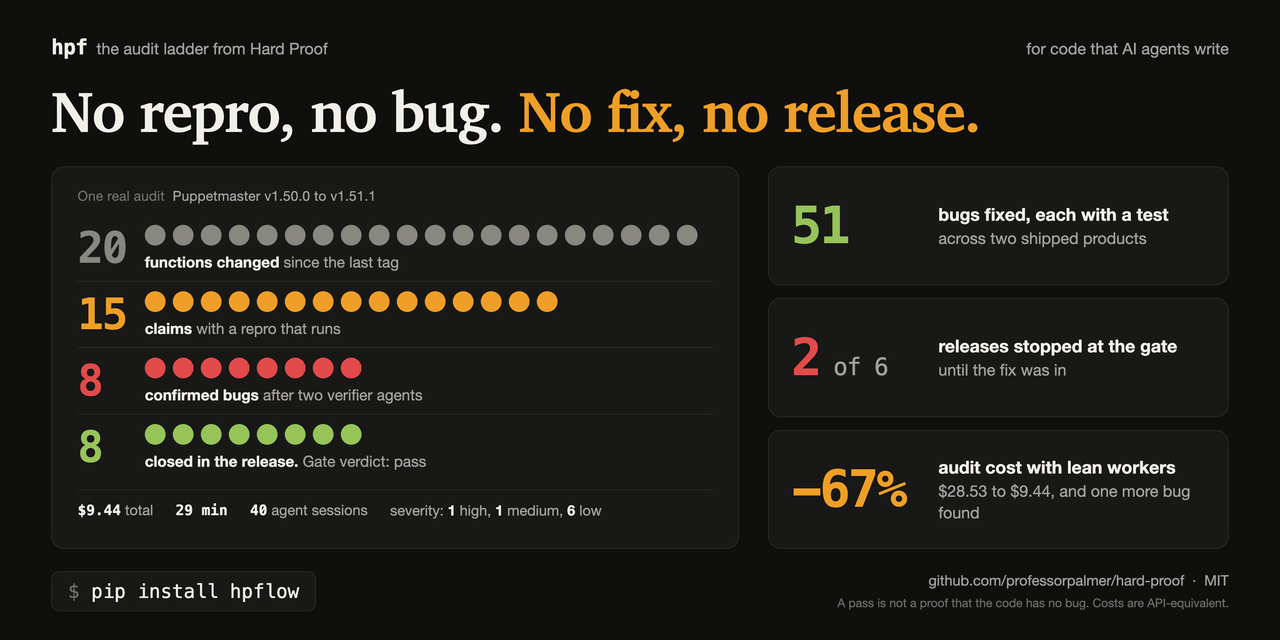
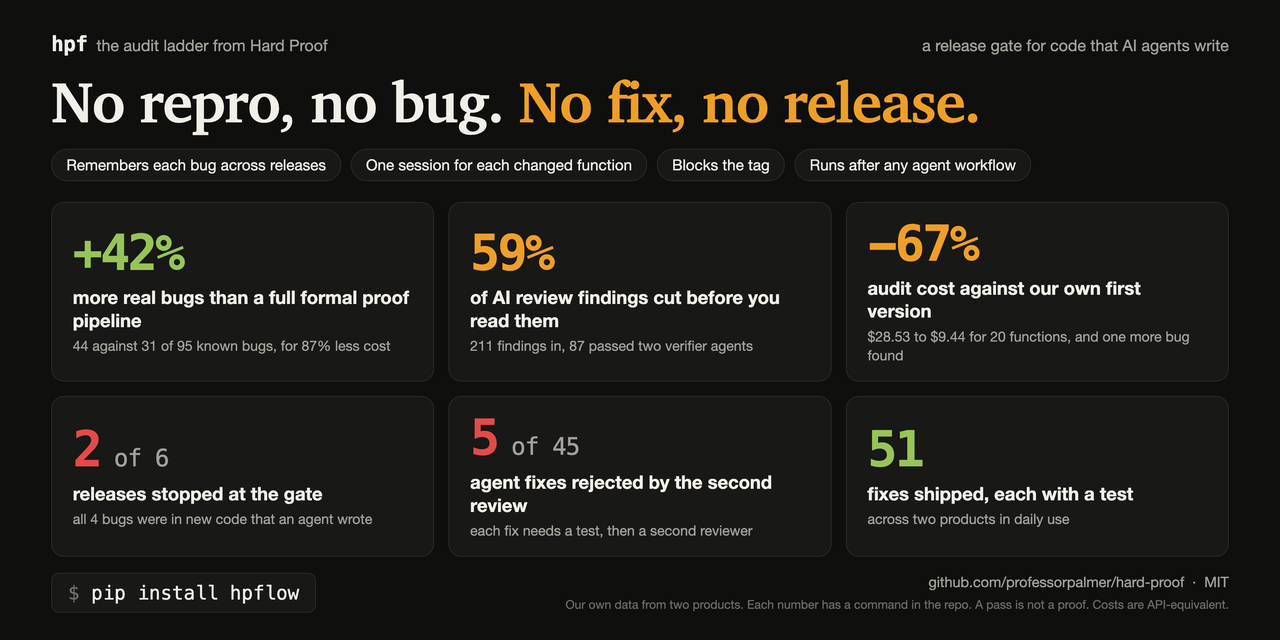
Link preview card: six measured comparisons
Sources: v2/retro_compare.json and v2/review_detected.json (44 against 31
of 95 known bugs, 105.49 against 792.70 US dollars), v2/ladder_summary.json
(211 findings, 87 passed two verifiers, 5 of 45 fixes reverted, 51 fixes),
v2/cost_cut.json (28.53 to 9.44), v2/gate_live.json (2 of 6 releases).

diff --git a/site/social/hpf-share-card.html b/site/social/hpf-share-card.html
@@ -8,40 +8,32 @@
 *{box-sizing:border-box;margin:0;padding:0}
 html,body{width:1600px;height:900px;background:var(--bg);color:var(--text);font-family:-apple-system,"SF Pro Text","Helvetica Neue",Arial,sans-serif;overflow:hidden}
 .mono{font-family:"SF Mono",Menlo,Consolas,monospace}
-.page{width:1600px;height:900px;padding:52px 64px 44px;display:flex;flex-direction:column}
+.page{width:1600px;height:900px;padding:48px 64px 40px;display:flex;flex-direction:column}
 .top{display:flex;justify-content:space-between;align-items:baseline;font-size:20px;color:var(--mute)}
 .top b{color:var(--text);font-weight:600;font-size:26px;letter-spacing:-0.5px}
-h1{font-family:Charter,"Iowan Old Style",Georgia,serif;font-weight:700;font-size:72px;line-height:1.08;letter-spacing:-1.5px;margin-top:26px}
+h1{font-family:Charter,"Iowan Old Style",Georgia,serif;font-weight:700;font-size:72px;line-height:1.08;letter-spacing:-1.5px;margin-top:22px}
 h1 i{font-style:normal;color:var(--amber)}
-.sub{font-size:24px;line-height:1.45;color:var(--mute);margin-top:18px;max-width:1300px}
-.grid{display:grid;grid-template-columns:860px 1fr;gap:36px;margin-top:34px;flex:1;min-height:0}
-.panel{background:var(--panel);border:1px solid var(--line);border-radius:16px;padding:26px 32px}
-.ptitle{font-size:17px;color:var(--dim);letter-spacing:0.2px;margin-bottom:14px}
-.ptitle span{color:var(--mute)}
-.row{display:grid;grid-template-columns:84px 1fr;align-items:center;padding:12px 0}
-.row + .row{border-top:1px solid var(--line)}
-.n{font-size:54px;font-weight:600;letter-spacing:-2px;line-height:1}
-.dots{display:flex;gap:9px;height:26px}
-.dots u{display:block;width:26px;height:26px;border-radius:50%}
-.lab{font-size:19px;color:var(--mute);margin-top:9px}
-.lab b{color:var(--text);font-weight:600}
-.meta{margin-top:12px;padding-top:14px;border-top:1px solid var(--line);font-size:18px;color:var(--mute);display:flex;gap:28px}
-.meta b{color:var(--text);font-weight:600}
-.tiles{display:flex;flex-direction:column;gap:16px}
-.tile{flex:1;background:var(--panel);border:1px solid var(--line);border-radius:16px;padding:20px 28px;display:grid;grid-template-columns:176px 1fr;align-items:center;column-gap:8px}
-.big{font-size:64px;font-weight:600;letter-spacing:-3px;line-height:1}
+.chips{display:flex;gap:12px;margin-top:20px}
+.chips span{font-size:19px;color:var(--text);border:1px solid var(--line);border-radius:999px;padding:8px 18px;background:var(--panel)}
+.grid{display:grid;grid-template-columns:repeat(3,1fr);grid-template-rows:1fr 1fr;gap:18px;margin-top:26px;flex:1;min-height:0}
+.tile{background:var(--panel);border:1px solid var(--line);border-radius:16px;padding:20px 26px;display:flex;flex-direction:column;justify-content:center}
+.big{font-size:62px;font-weight:600;letter-spacing:-3px;line-height:1}
 .big small{font-size:30px;letter-spacing:-1px;color:var(--mute);font-weight:500}
-.tl{font-size:20px;line-height:1.35;color:var(--mute)}
-.tl b{color:var(--text);font-weight:600;display:block;font-size:22px;margin-bottom:2px}
-.foot{display:flex;justify-content:space-between;align-items:center;margin-top:26px}
+.claim{font-size:23px;font-weight:600;line-height:1.25;margin-top:10px}
+.ev{font-size:17.5px;line-height:1.35;color:var(--mute);margin-top:6px}
+.strip{margin-top:18px;border:1px solid var(--line);border-radius:14px;background:var(--panel);padding:14px 26px;display:flex;align-items:center;justify-content:space-between;font-size:20px;color:var(--mute)}
+.strip b{font-weight:600;font-size:26px}
+.strip em{font-style:normal;color:var(--dim);padding:0 6px}
+.strip .lead{color:var(--dim);font-size:17px}
+.foot{display:flex;justify-content:space-between;align-items:center;margin-top:20px}
 .pill{font-size:24px;border:1px solid var(--line);background:var(--panel);border-radius:10px;padding:10px 20px;color:var(--text)}
 .pill em{font-style:normal;color:var(--dim)}
 .src{font-size:18px;color:var(--mute);text-align:right;line-height:1.5}
 .src span{color:var(--dim);font-size:15px}
 html.og,html.og body{height:800px}
-html.og .page{height:800px;padding:44px 64px 34px}
-html.og .sub{display:none}
-html.og .grid{margin-top:30px}
+html.og .page{height:800px;padding:40px 64px 32px}
+html.og .strip{display:none}
+html.og h1{margin-top:18px}
 </style>
 <script>if(location.search.indexOf('og')>=0)document.documentElement.classList.add('og');</script>
 </head>
@@ -49,35 +41,32 @@ html.og .grid{margin-top:30px}
 <div class="page">
   <div class="top">
     <div><b class="mono">hpf</b>&nbsp;&nbsp;the audit ladder from Hard Proof</div>
-    <div>for code that AI agents write</div>
+    <div>a release gate for code that AI agents write</div>
   </div>
   <h1>No repro, no bug. <i>No fix, no release.</i></h1>
-  <p class="sub">It audits only the functions that changed since the last tag. A claim counts only with a repro that fails on the newest code. Two verifier agents must agree. An open bug blocks the tag.</p>
+  <div class="chips">
+    <span>Remembers each bug across releases</span>
+    <span>One session for each changed function</span>
+    <span>Blocks the tag</span>
+    <span>Runs after any agent workflow</span>
+  </div>
   <div class="grid">
-    <div class="panel">
-      <div class="ptitle">One real audit <span>&nbsp;Puppetmaster v1.50.0 to v1.51.1</span></div>
-      <div class="row"><div class="n mono" style="color:var(--gray)">20</div><div><div class="dots" id="d0"></div><div class="lab"><b>functions changed</b> since the last tag</div></div></div>
-      <div class="row"><div class="n mono" style="color:var(--amber)">15</div><div><div class="dots" id="d1"></div><div class="lab"><b>claims</b> with a repro that runs</div></div></div>
-      <div class="row"><div class="n mono" style="color:var(--red)">8</div><div><div class="dots" id="d2"></div><div class="lab"><b>confirmed bugs</b> after two verifier agents</div></div></div>
-      <div class="row"><div class="n mono" style="color:var(--green)">8</div><div><div class="dots" id="d3"></div><div class="lab"><b>closed in the release.</b> Gate verdict: pass</div></div></div>
-      <div class="meta"><span><b class="mono">$9.44</b> total</span><span><b class="mono">29 min</b></span><span><b class="mono">40</b> agent sessions</span><span>severity: <b>1</b> high, <b>1</b> medium, <b>6</b> low</span></div>
-    </div>
-    <div class="tiles">
-      <div class="tile"><div class="big mono" style="color:var(--green)">51</div><div class="tl"><b>bugs fixed, each with a test</b>across two shipped products</div></div>
-      <div class="tile"><div class="big mono" style="color:var(--red)">2<small> of 6</small></div><div class="tl"><b>releases stopped at the gate</b>until the fix was in</div></div>
-      <div class="tile"><div class="big mono" style="color:var(--amber)">-67%</div><div class="tl"><b>audit cost with lean workers</b>$28.53 to $9.44, and one more bug found</div></div>
-    </div>
+    <div class="tile"><div class="big mono" style="color:var(--green)">+42%</div><div class="claim">more real bugs than a full formal proof pipeline</div><div class="ev">44 against 31 of 95 known bugs, for 87% less cost</div></div>
+    <div class="tile"><div class="big mono" style="color:var(--amber)">59%</div><div class="claim">of AI review findings cut before you read them</div><div class="ev">211 findings in, 87 passed two verifier agents</div></div>
+    <div class="tile"><div class="big mono" style="color:var(--amber)">-67%</div><div class="claim">audit cost against our own first version</div><div class="ev">$28.53 to $9.44 for 20 functions, and one more bug found</div></div>
+    <div class="tile"><div class="big mono" style="color:var(--red)">2<small> of 6</small></div><div class="claim">releases stopped at the gate</div><div class="ev">all 4 bugs were in new code that an agent wrote</div></div>
+    <div class="tile"><div class="big mono" style="color:var(--red)">5<small> of 45</small></div><div class="claim">agent fixes rejected by the second review</div><div class="ev">each fix needs a test, then a second reviewer</div></div>
+    <div class="tile"><div class="big mono" style="color:var(--green)">51</div><div class="claim">fixes shipped, each with a test</div><div class="ev">across two products in daily use</div></div>
+  </div>
+  <div class="strip">
+    <span class="lead">One real audit</span>
+    <span><b class="mono" style="color:var(--gray)">20</b> functions changed<em>&rarr;</em><b class="mono" style="color:var(--amber)">15</b> claims with a repro<em>&rarr;</em><b class="mono" style="color:var(--red)">8</b> confirmed bugs<em>&rarr;</em><b class="mono" style="color:var(--green)">8</b> closed at release</span>
+    <span><b class="mono" style="color:var(--text)">$9.44</b>&nbsp; in &nbsp;<b class="mono" style="color:var(--text)">29 min</b></span>
   </div>
   <div class="foot">
     <div class="pill mono"><em>$</em> pip install hpflow</div>
-    <div class="src">github.com/professorpalmer/hard-proof &nbsp;·&nbsp; MIT<br><span>A pass is not a proof that the code has no bug. Costs are API-equivalent.</span></div>
+    <div class="src">github.com/professorpalmer/hard-proof &nbsp;·&nbsp; MIT<br><span>Our own data from two products. Each number has a command in the repo. A pass is not a proof. Costs are API-equivalent.</span></div>
   </div>
 </div>
-<script>
-[[20,'--gray'],[15,'--amber'],[8,'--red'],[8,'--green']].forEach(function(r,i){
-  var el=document.getElementById('d'+i);
-  for(var k=0;k<r[0];k++){var u=document.createElement('u');u.style.background='var('+r[1]+')';el.appendChild(u);}
-});
-</script>
 </body>
 </html>
